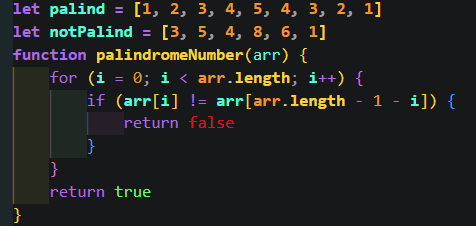
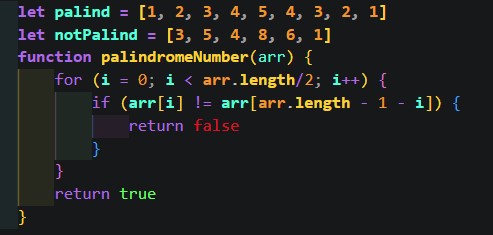
commit

diff --git a/pages/leason8.html b/pages/leason8.html
@@ -136,7 +136,7 @@
                     </div>
                     <h5 class="card-title">פיתרון</h5>
                     <div class="card-img my-2">
-                        <img class="img-fluid" src="../works/Leason8/leason8images/leason-8-1-js.png"
+                        <img class="img-fluid" src="../works/leason8/leason8images/leason-8-1-js.png"
                             alt="leason 8 javaScript js question 1">
                     </div>
                     <div class="card-body">
@@ -151,7 +151,7 @@
                                 let palind = [1, 2, 3, 4, 5, 4, 3, 2, 1]
                                 let notPalind = [3, 5, 4, 8, 6, 1]
                                 function palindromeNumber(arr) {
-                                    for (i = 0; i < arr.length; i++) {
+                                    for (i = 0; i < arr.length/2; i++) {
                                         if (arr[i] != arr[arr.length - 1 - i]) {
                                             return false
                                         }
